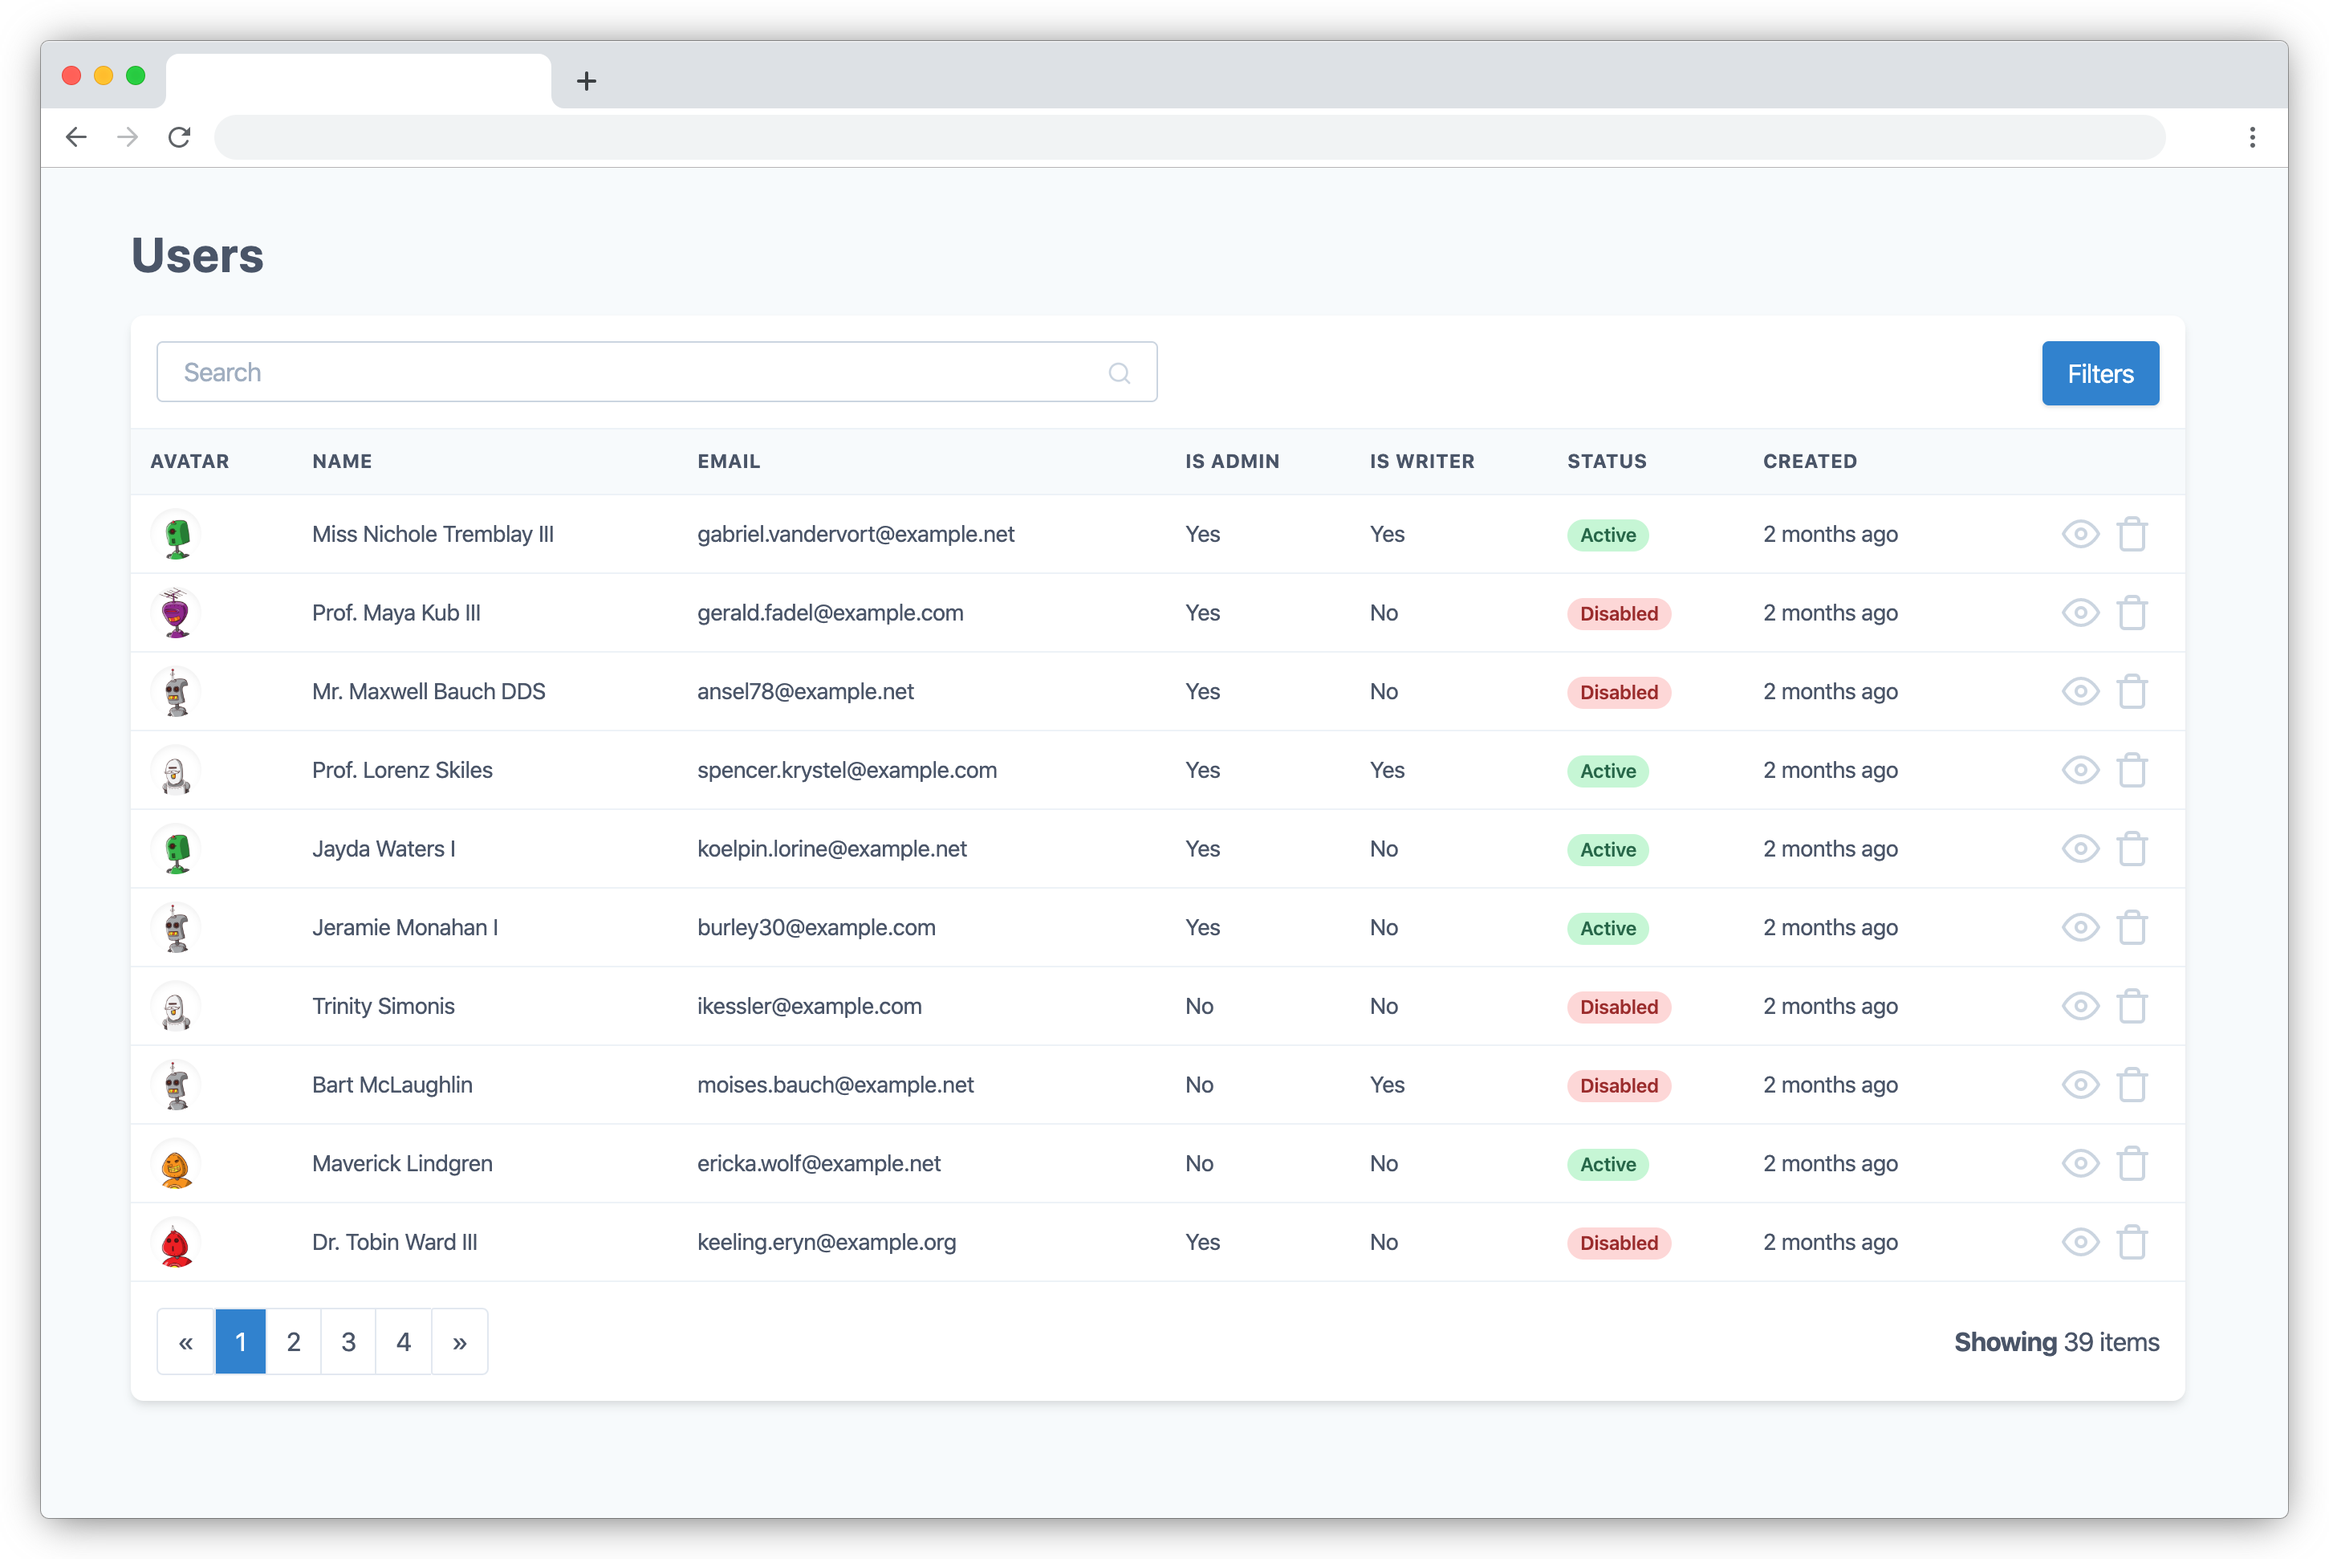
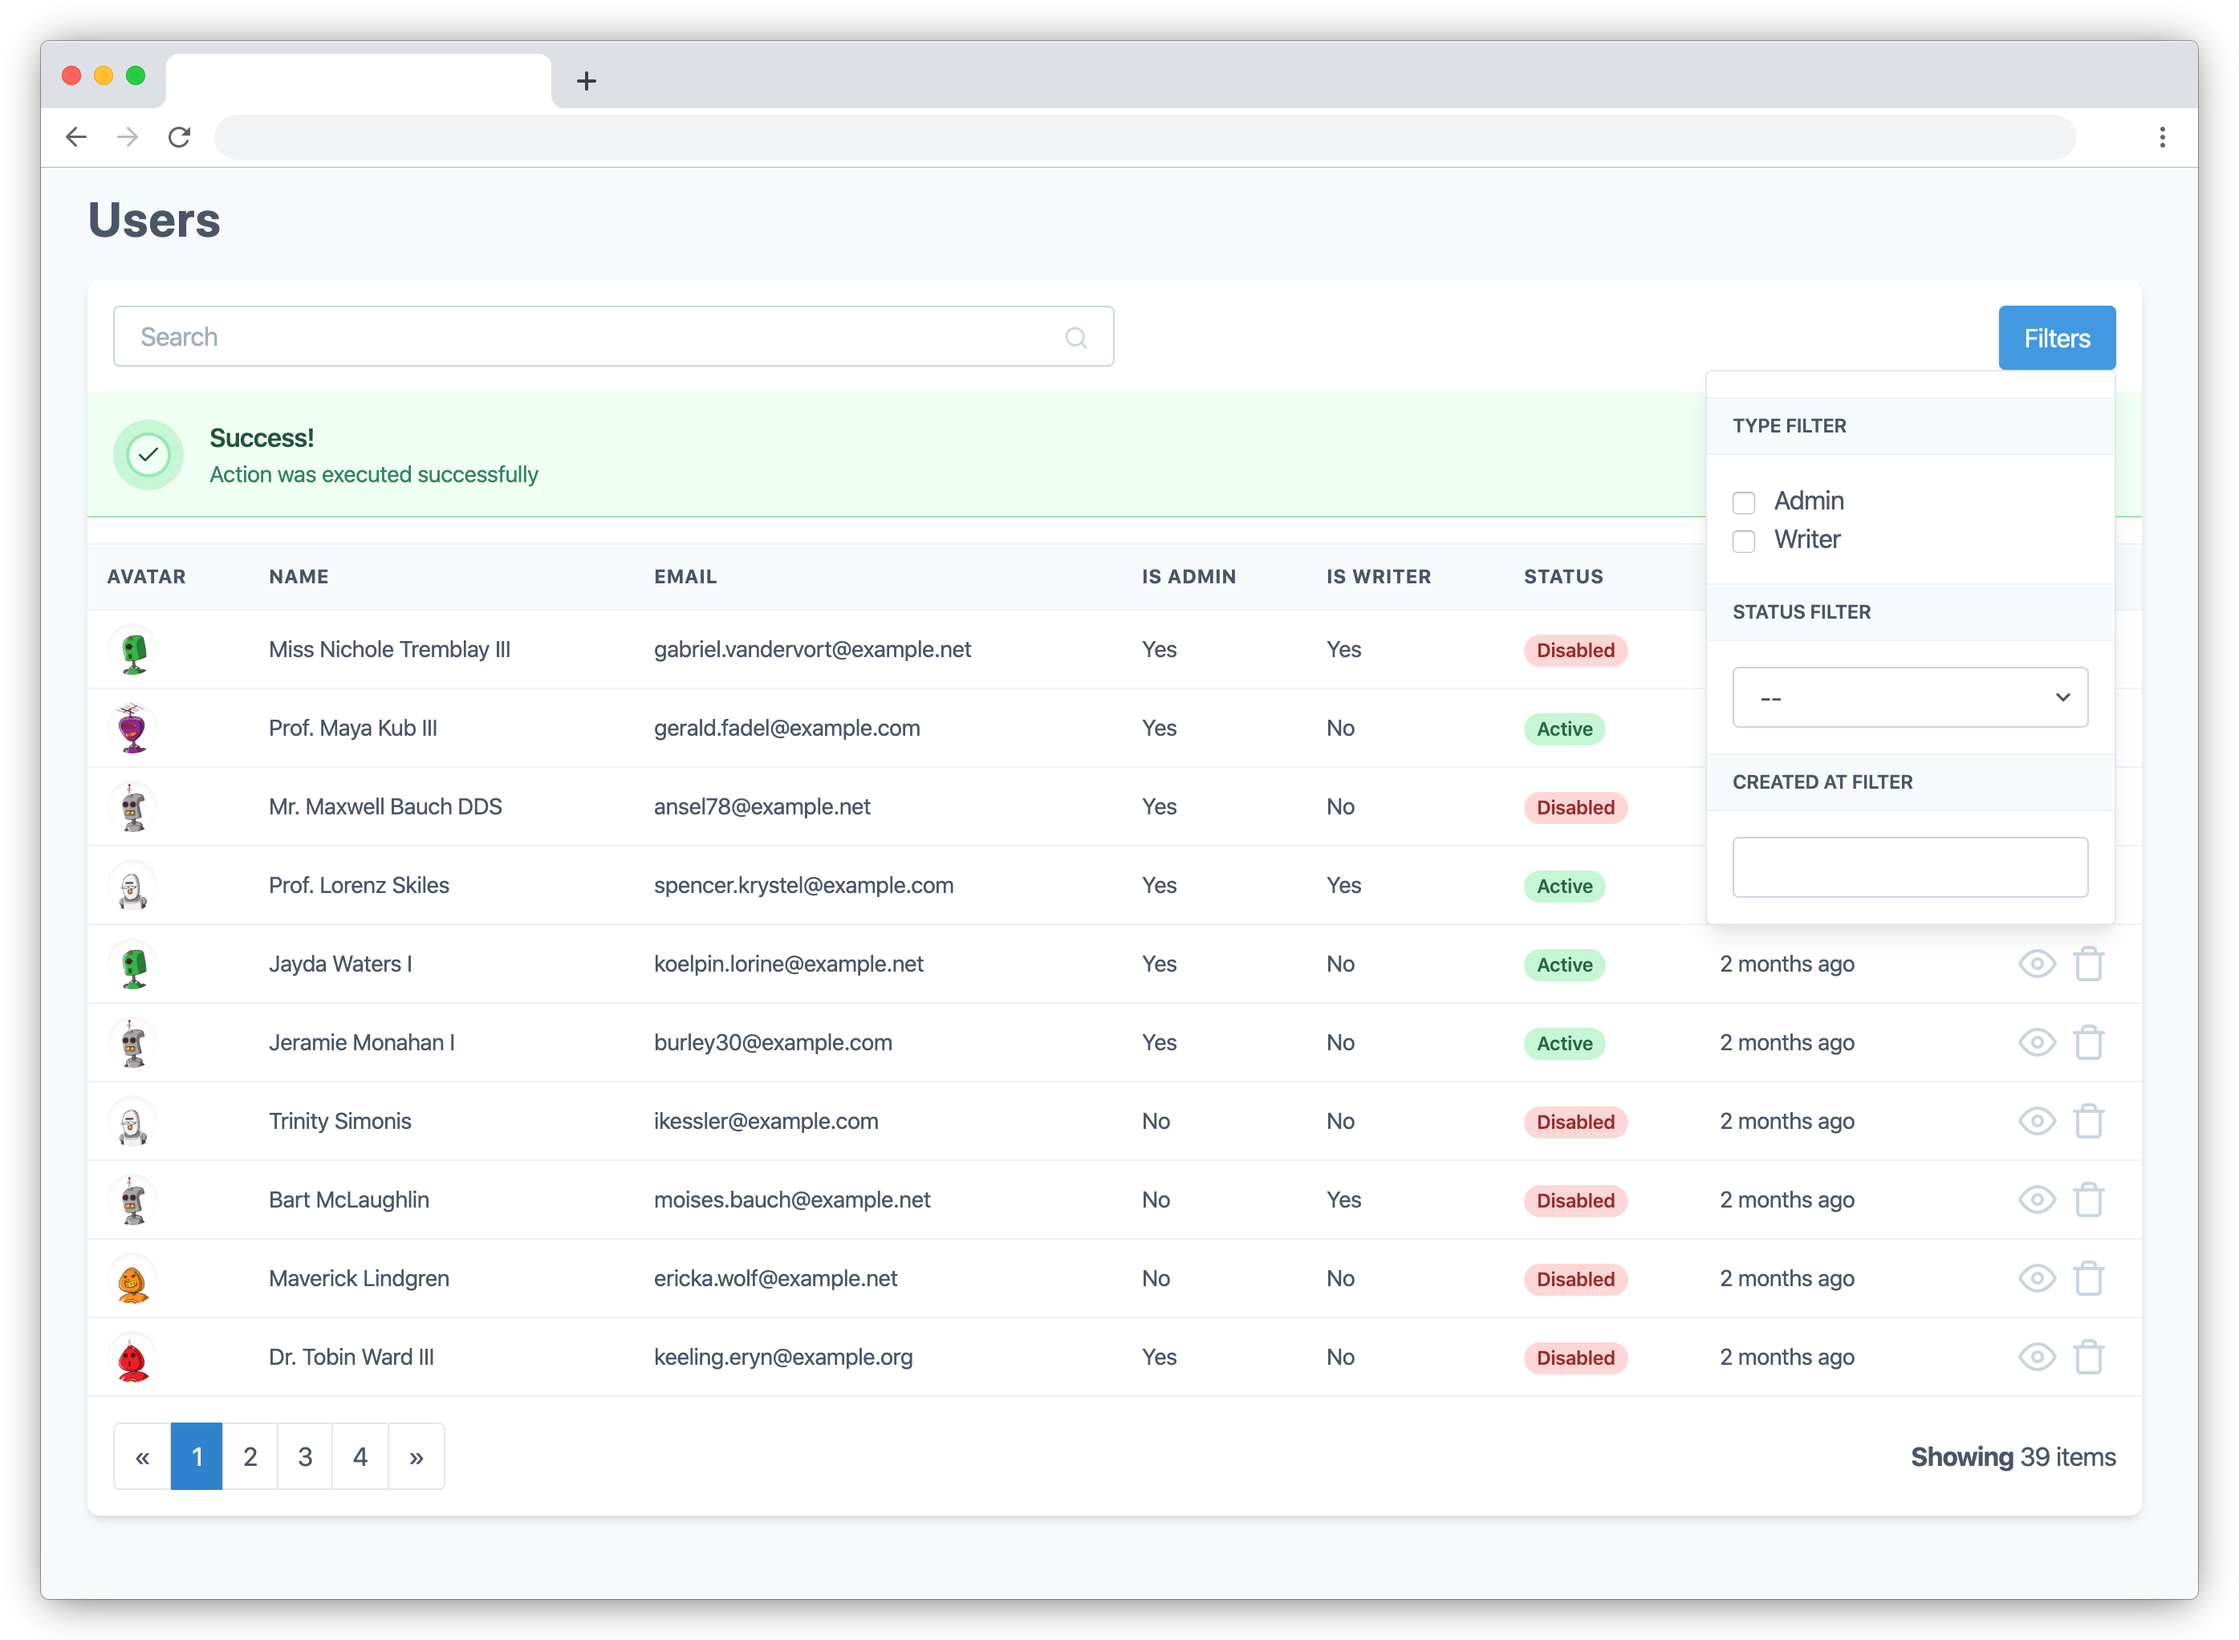
doc: Add images to documentation
I added images to filters and alerts

diff --git a/doc/table-view.md b/doc/table-view.md
@@ -1,3 +1,8 @@
+# Table view
+
+This view creates a dinamic data table, you can customize the headers, the data to be displayed for each row, add a search input, filters and actions
+
+- [Laravel views](../README.md)
 - [Table view](#table-view)
     - [Create new table view](#create-new-table-view)
     - [Defining initial data](#defining-initial-data)
@@ -10,14 +15,15 @@
     - [Boolean filter](#boolean-filter)
     - [Date filter](#date-filter)
     - [Registering filters](#registering-filters)
+    - [Changing title](#changing-title)
 - [Actions](#actions)
     - [Registering actions](#registering-actions)
     - [Redirect action](#redirect-action)
     - [Showing alert messages](#showing-alert-messages)
 
-# Table view
+## Table View example
 
-This view creates a dinamic data table, you can customize the headers, the data to be displayed for each row, add a search input, filters and actions
+![](../doc/table.png)
 
 ## Create new table view
 ```bash
@@ -70,8 +76,14 @@ protected $paginate = 50;
 # Filters
 You can add features to filter the table data, when a filter is configured a button is showd at the top right of the table. These filters are created inside `app` directory and you can user any namespace you want.
 
+![](filters.png)
+
 ## Select filter
+
 The most common filter, allow the user to choose an option from a dropdown menu.
+
+![](select.png)
+
 ```bash
 php artisan make:filter Filters/UsersActiveFilter
 ```
@@ -97,6 +109,9 @@ The `apply` method receives que current `$query`, the `$value` selected by the u
 
 ## Boolean filter
 This filter allows the user to choose multiple options from a list of input check boxes
+
+![](boolean.png)
+
 ```bash
 php artisan make:filter Filters/UsersTypeFilter --type=boolean
 ```
@@ -133,6 +148,9 @@ In this case the `apply` method receives the current `$query` and an associative
 ## Date filter
 
 The date filter allows the user select the value by a date picker
+
+![](date.png)
+
 ```bash
 php artisan make:filter Filters/CreatedFilter --type=date
 ```
@@ -163,6 +181,13 @@ protected function filters()
         new UsersTypeFilter
     ];
 }
+```
+
+## Changing title
+You can customize the title of the filter adding a public property `$title` with the title you want
+
+```php
+public $title =  "My custom title";
 ```
 
 # Actions
@@ -203,6 +228,7 @@ protected function actionsByRow()
 
 ## Redirect action
 This package has a defined action to redirect the user to a named route related to your model inside your project when the button is clicked, you can use it directly on the `actionsByRow` method
+
 ```php
 protected function actionsByRow()
 {
@@ -212,10 +238,13 @@ protected function actionsByRow()
     ];
 }
 ```
+
 The first param is the name of the route to be redirected, it is important to be a named route, the `RedirectAction` will inject the model id to that route
 
 ## Showing alert messages
 To display a success alert message you can execute the `$this->succes()` at the end of the handle method, a default message will be displayed once the action is executed
+
+![](success.png)
 
 ```php
 public function handle($model)
@@ -235,3 +264,5 @@ To display an error message just execute `error` instead of `success`
 ```php
 $this->error();
 ```
+
+![](error.png)
